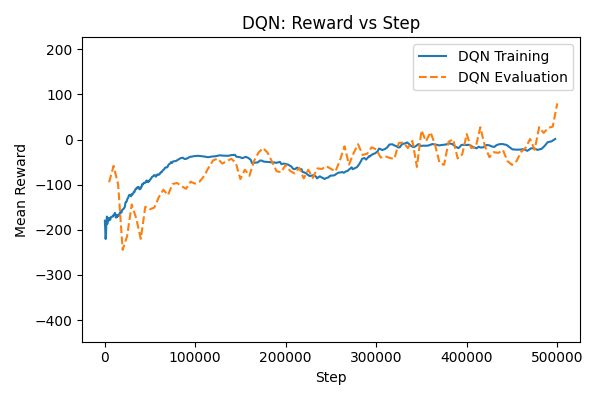
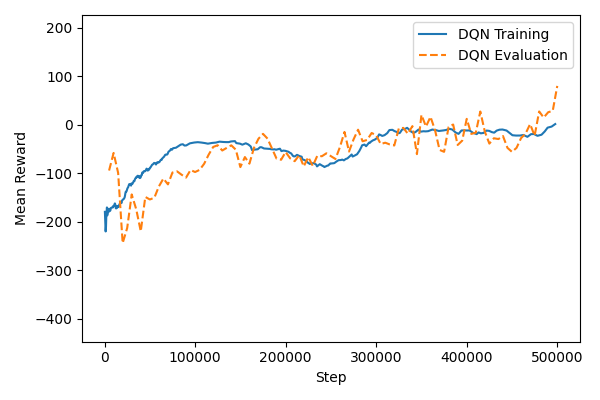
Remove title from plots

diff --git a/plots/exercise3_plots.py b/plots/exercise3_plots.py
@@ -24,7 +24,6 @@ def plot_metric(
     sns.lineplot(data=eval_df, x="Step", y="Value", label=eval_label, linestyle="--")
     plt.xlabel("Step")
     plt.ylabel(ylabel)
-    plt.title(title)
     plt.legend()
     plt.tight_layout()
     plt.savefig(plot_file)

diff --git a/plots/exercise2_plots.py b/plots/exercise2_plots.py
@@ -79,7 +79,6 @@ def plot_metric(
     sns.lineplot(data=eval_df, x="Step", y="Value", label=eval_label, linestyle="--")
     plt.xlabel("Step")
     plt.ylabel(ylabel)
-    plt.title(title)
     plt.ylim(ylim)
     plt.legend()
     plt.tight_layout()
